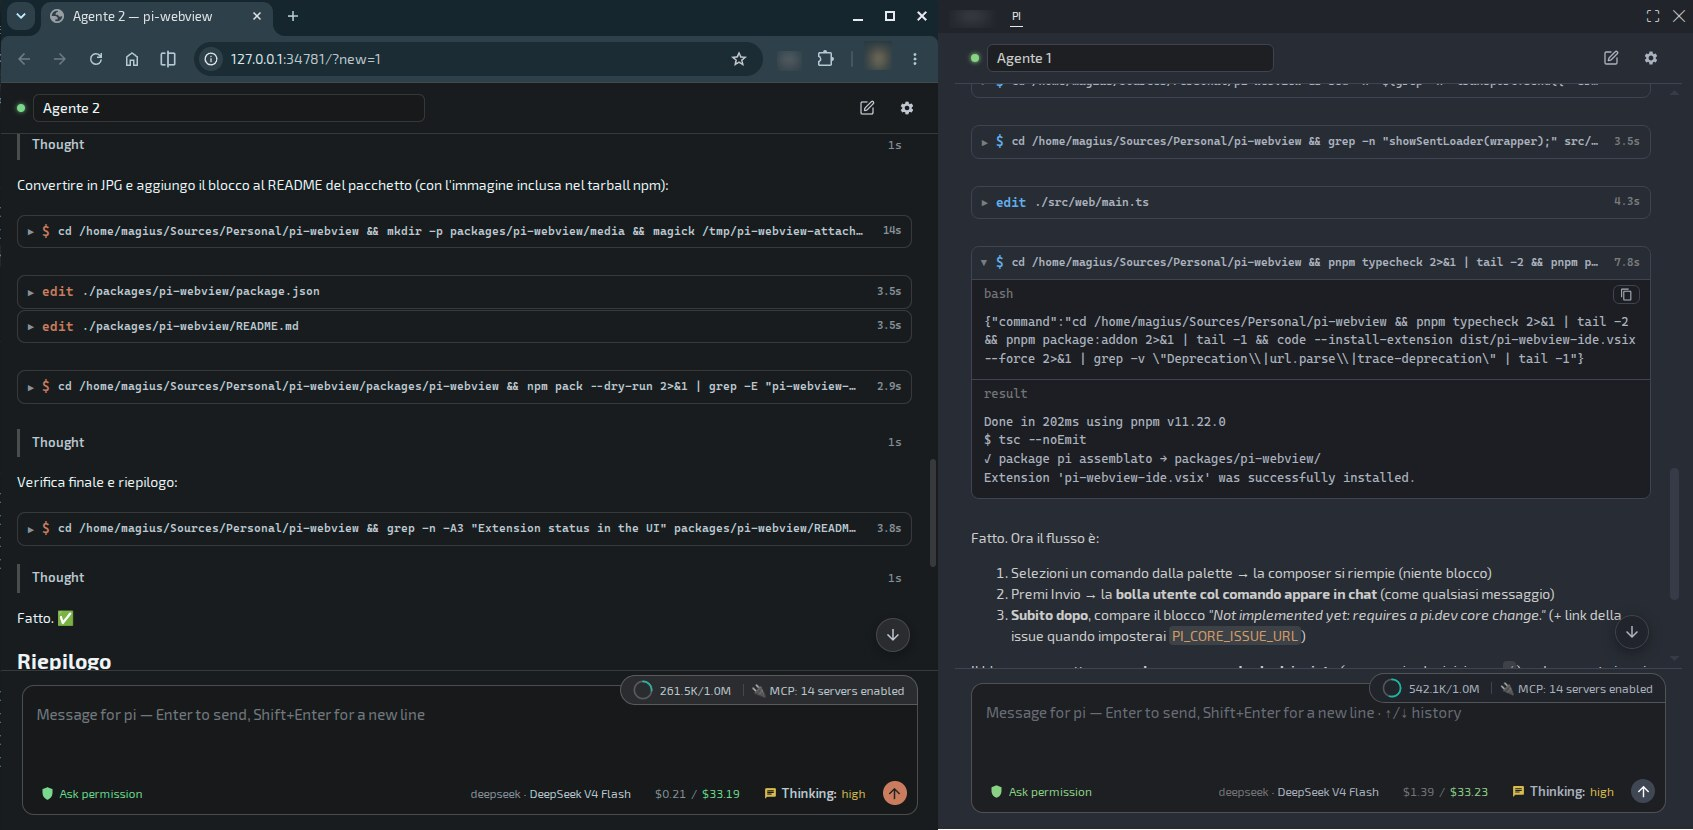
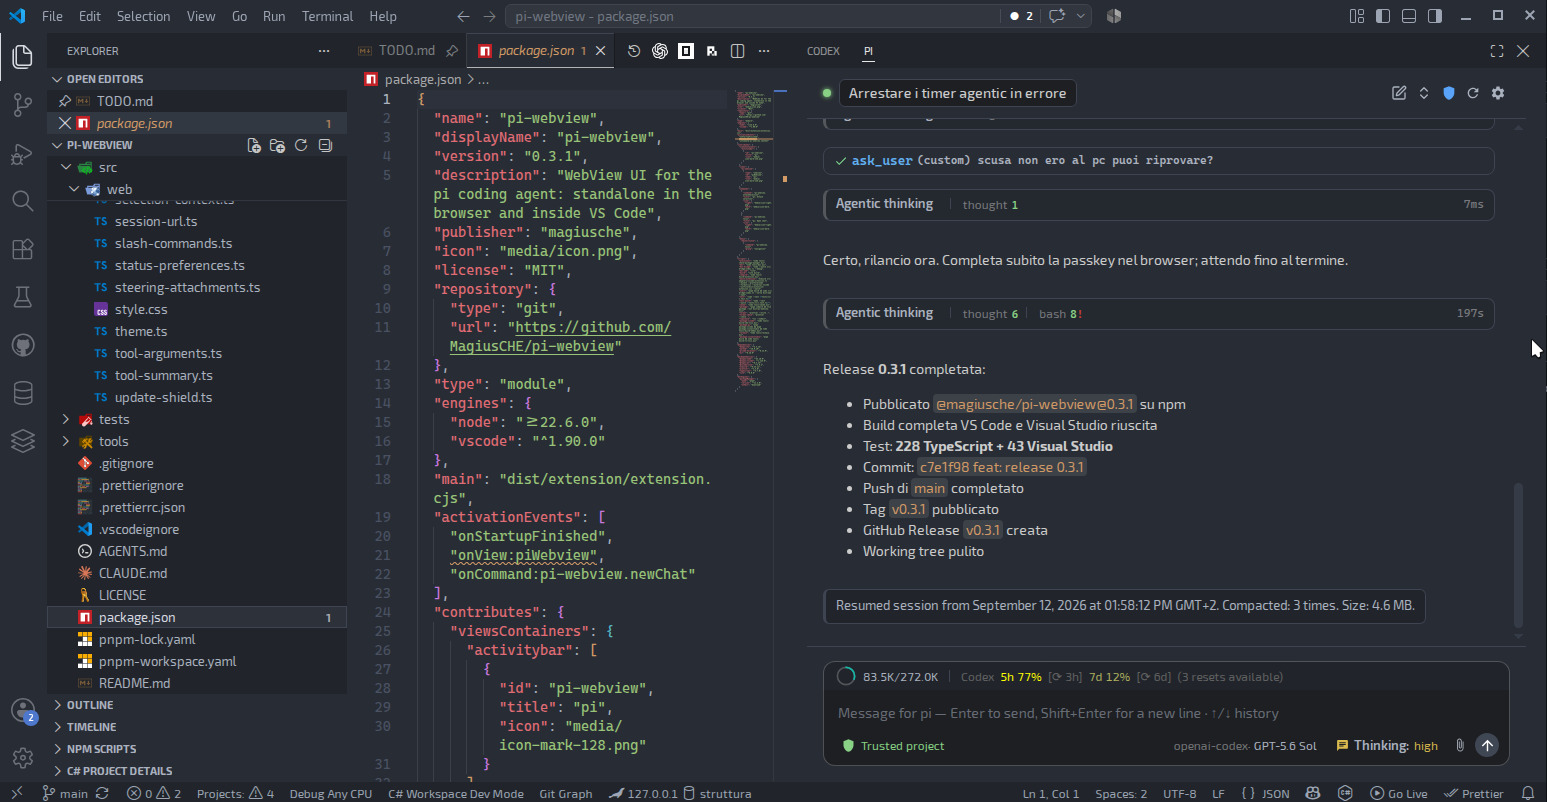
docs: refresh README screenshots

diff --git a/packages/pi-webview/README.md b/packages/pi-webview/README.md
@@ -2,6 +2,12 @@
 
 A rich WebView UI for [pi](https://pi.dev), the coding agent — a modern alternative to running pi in a terminal. Built as a framework-agnostic web app, it works **standalone in the browser** and inside supported **IDE webviews** with the same codebase.
 
+![pi-webview in VS Code](https://raw.githubusercontent.com/MagiusCHE/pi-webview/main/media/pi-webview-preview.jpg)
+
+![pi-webview standalone in the browser](https://raw.githubusercontent.com/MagiusCHE/pi-webview/main/media/pi-webview-standalone.jpg)
+
+![Composer and extension status in the webview UI](https://raw.githubusercontent.com/MagiusCHE/pi-webview/main/media/pi-webview-status.jpg)
+
 > ⚠ **Experimental.** Actively developed. Things can break, change or disappear. Use it for exploration, not production.
 
 ## Implemented IDE companions

diff --git a/README.md b/README.md
@@ -2,9 +2,11 @@
 
 A rich WebView UI for [pi](https://pi.dev), the coding agent — a modern alternative to running pi in a terminal. Built as a framework-agnostic web app, it works **standalone in the browser** and inside supported **IDE webviews** with the same codebase.
 
-![pi-webview preview](media/pi-webview-preview.jpg)
+![pi-webview in VS Code](media/pi-webview-preview.jpg)
 
-![Extension status in the webview UI](media/pi-webview-status.jpg)
+![pi-webview standalone in the browser](media/pi-webview-standalone.jpg)
+
+![Composer and extension status in the webview UI](media/pi-webview-status.jpg)
 
 ![status](https://img.shields.io/badge/status-early%20development-orange)
 
